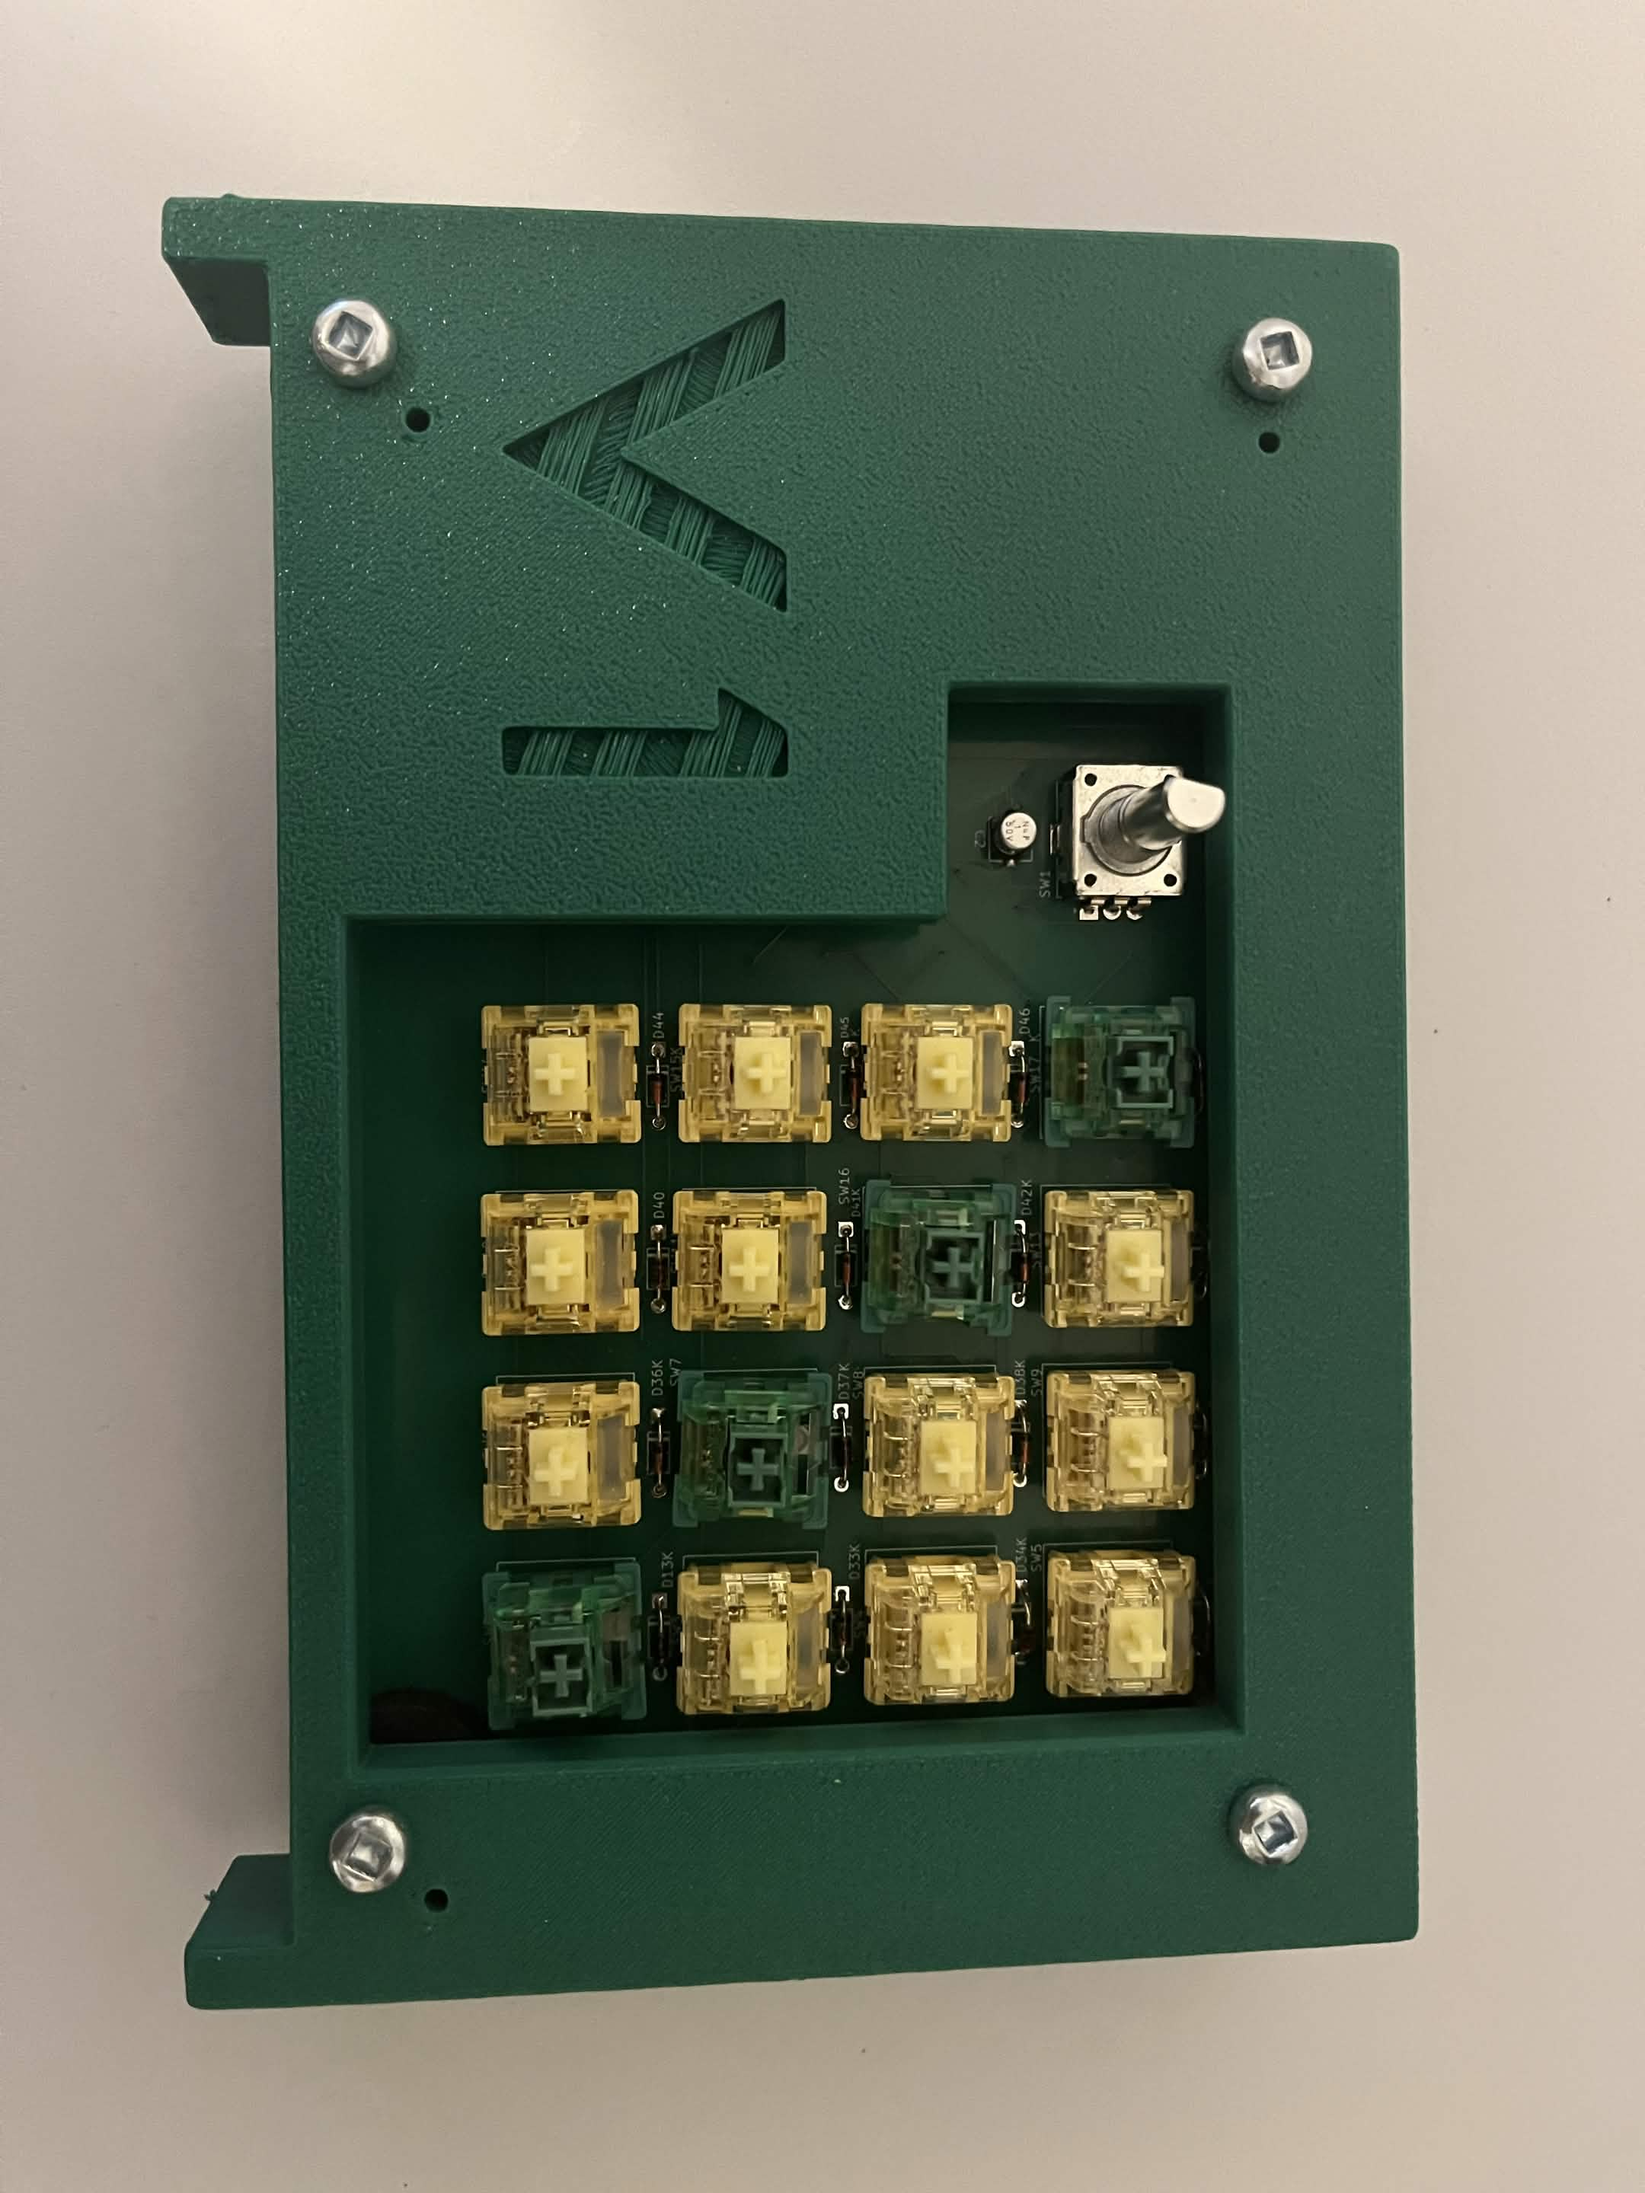
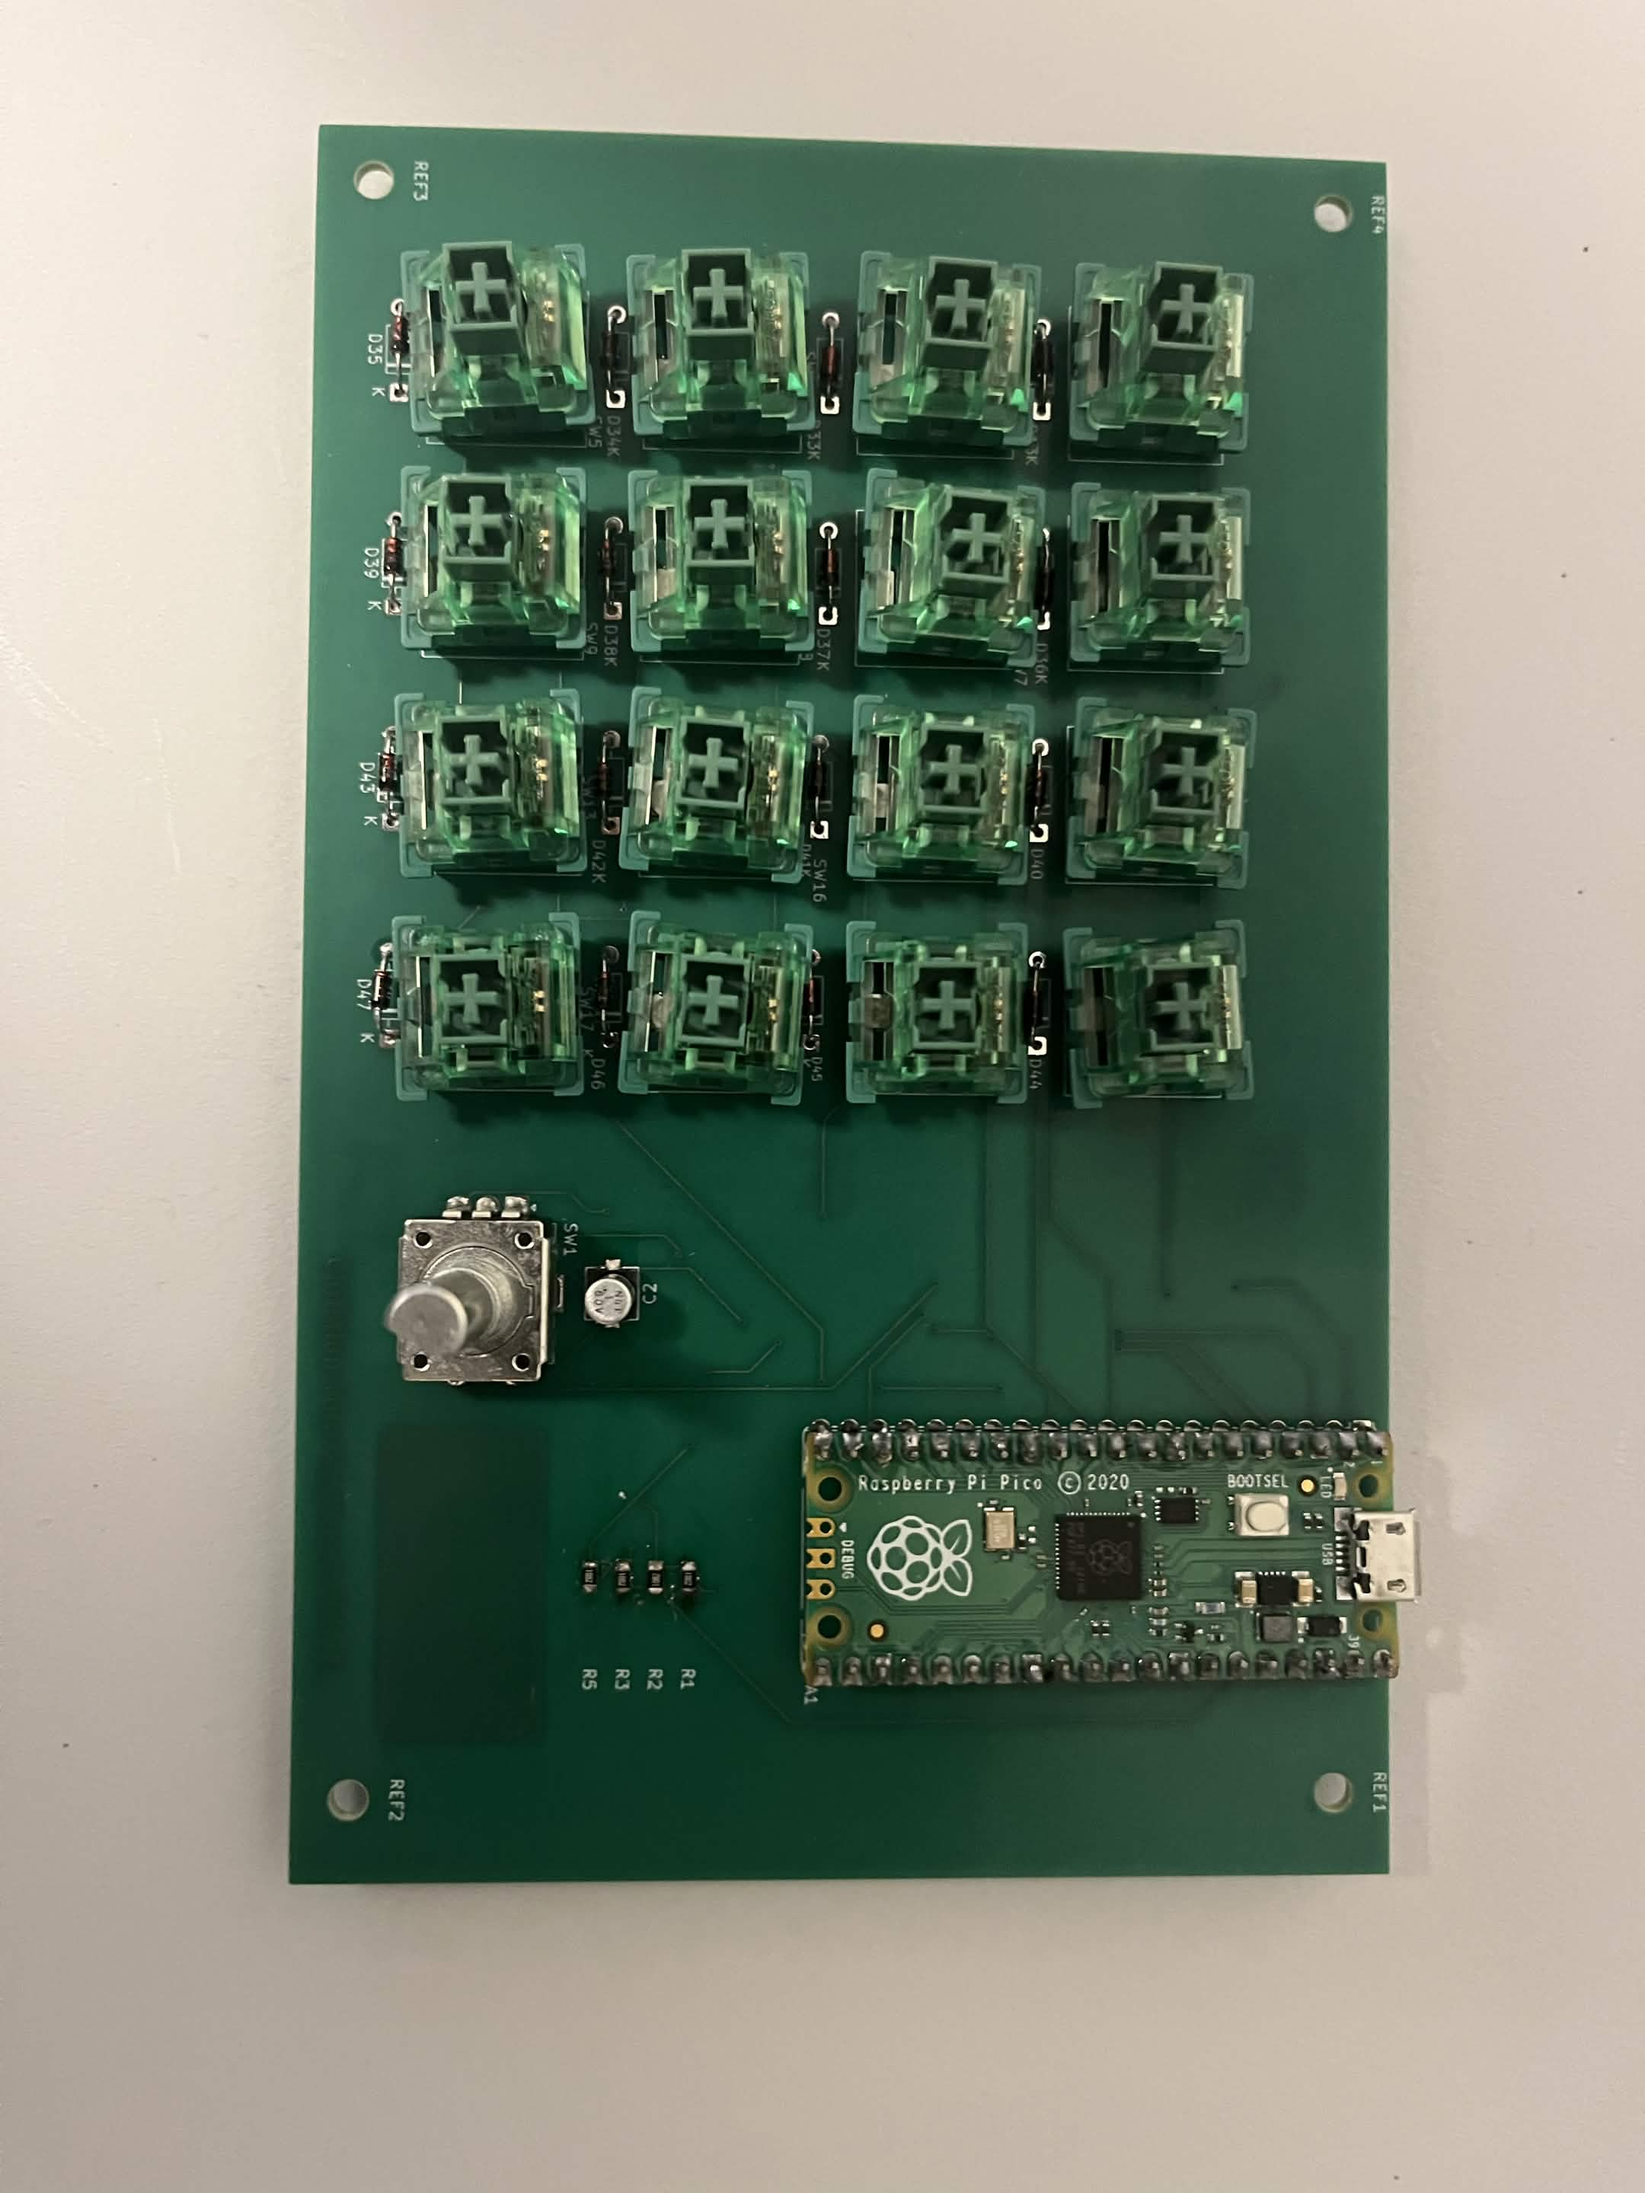
Fixed small image issues on the README.

diff --git a/README.md b/README.md
@@ -80,8 +80,6 @@ In this time period, the case of the PCB was modelled using OnShape, and 3D prin
 
 ![Keyboard Front](hardware/keyboard_v1_front.jpg)
 
-![Keyboard Back](hardware/keyboard_v1_back.jpg.jpg)
-
 ## Future Improvements
 
 - Most notably, while assembling/soldering check more frequently whether the parts assembled have the right voltage/behavior using tools such as oscilloscopes or multimeters.
